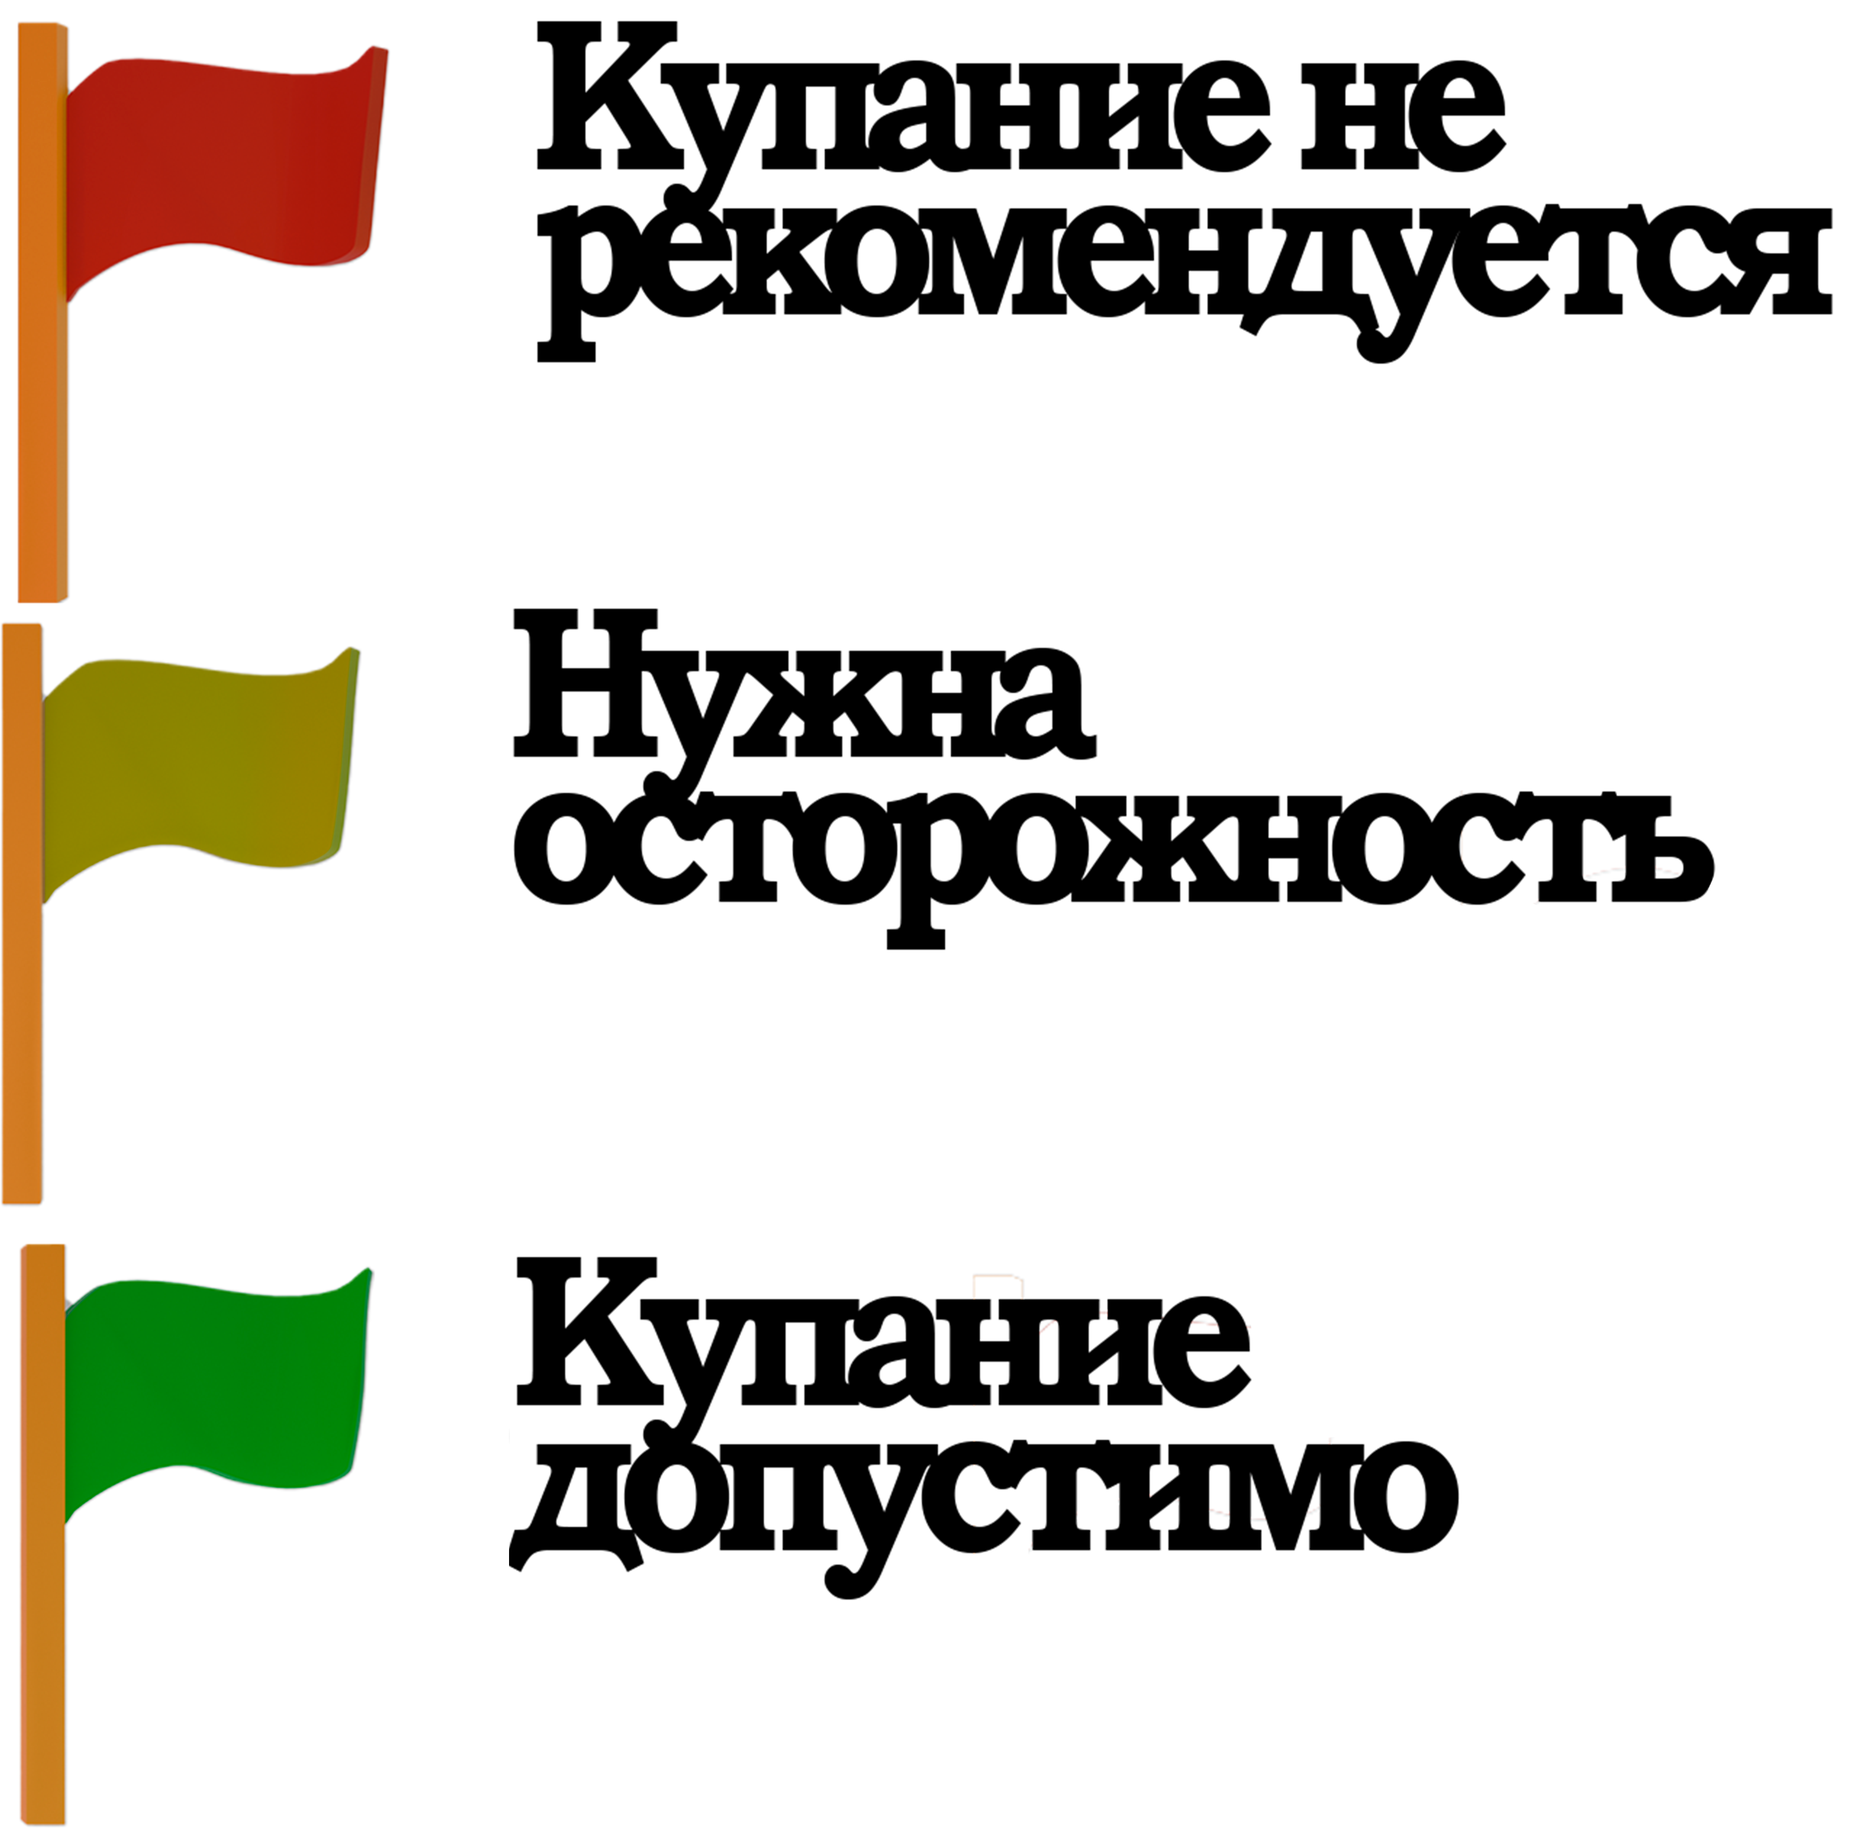
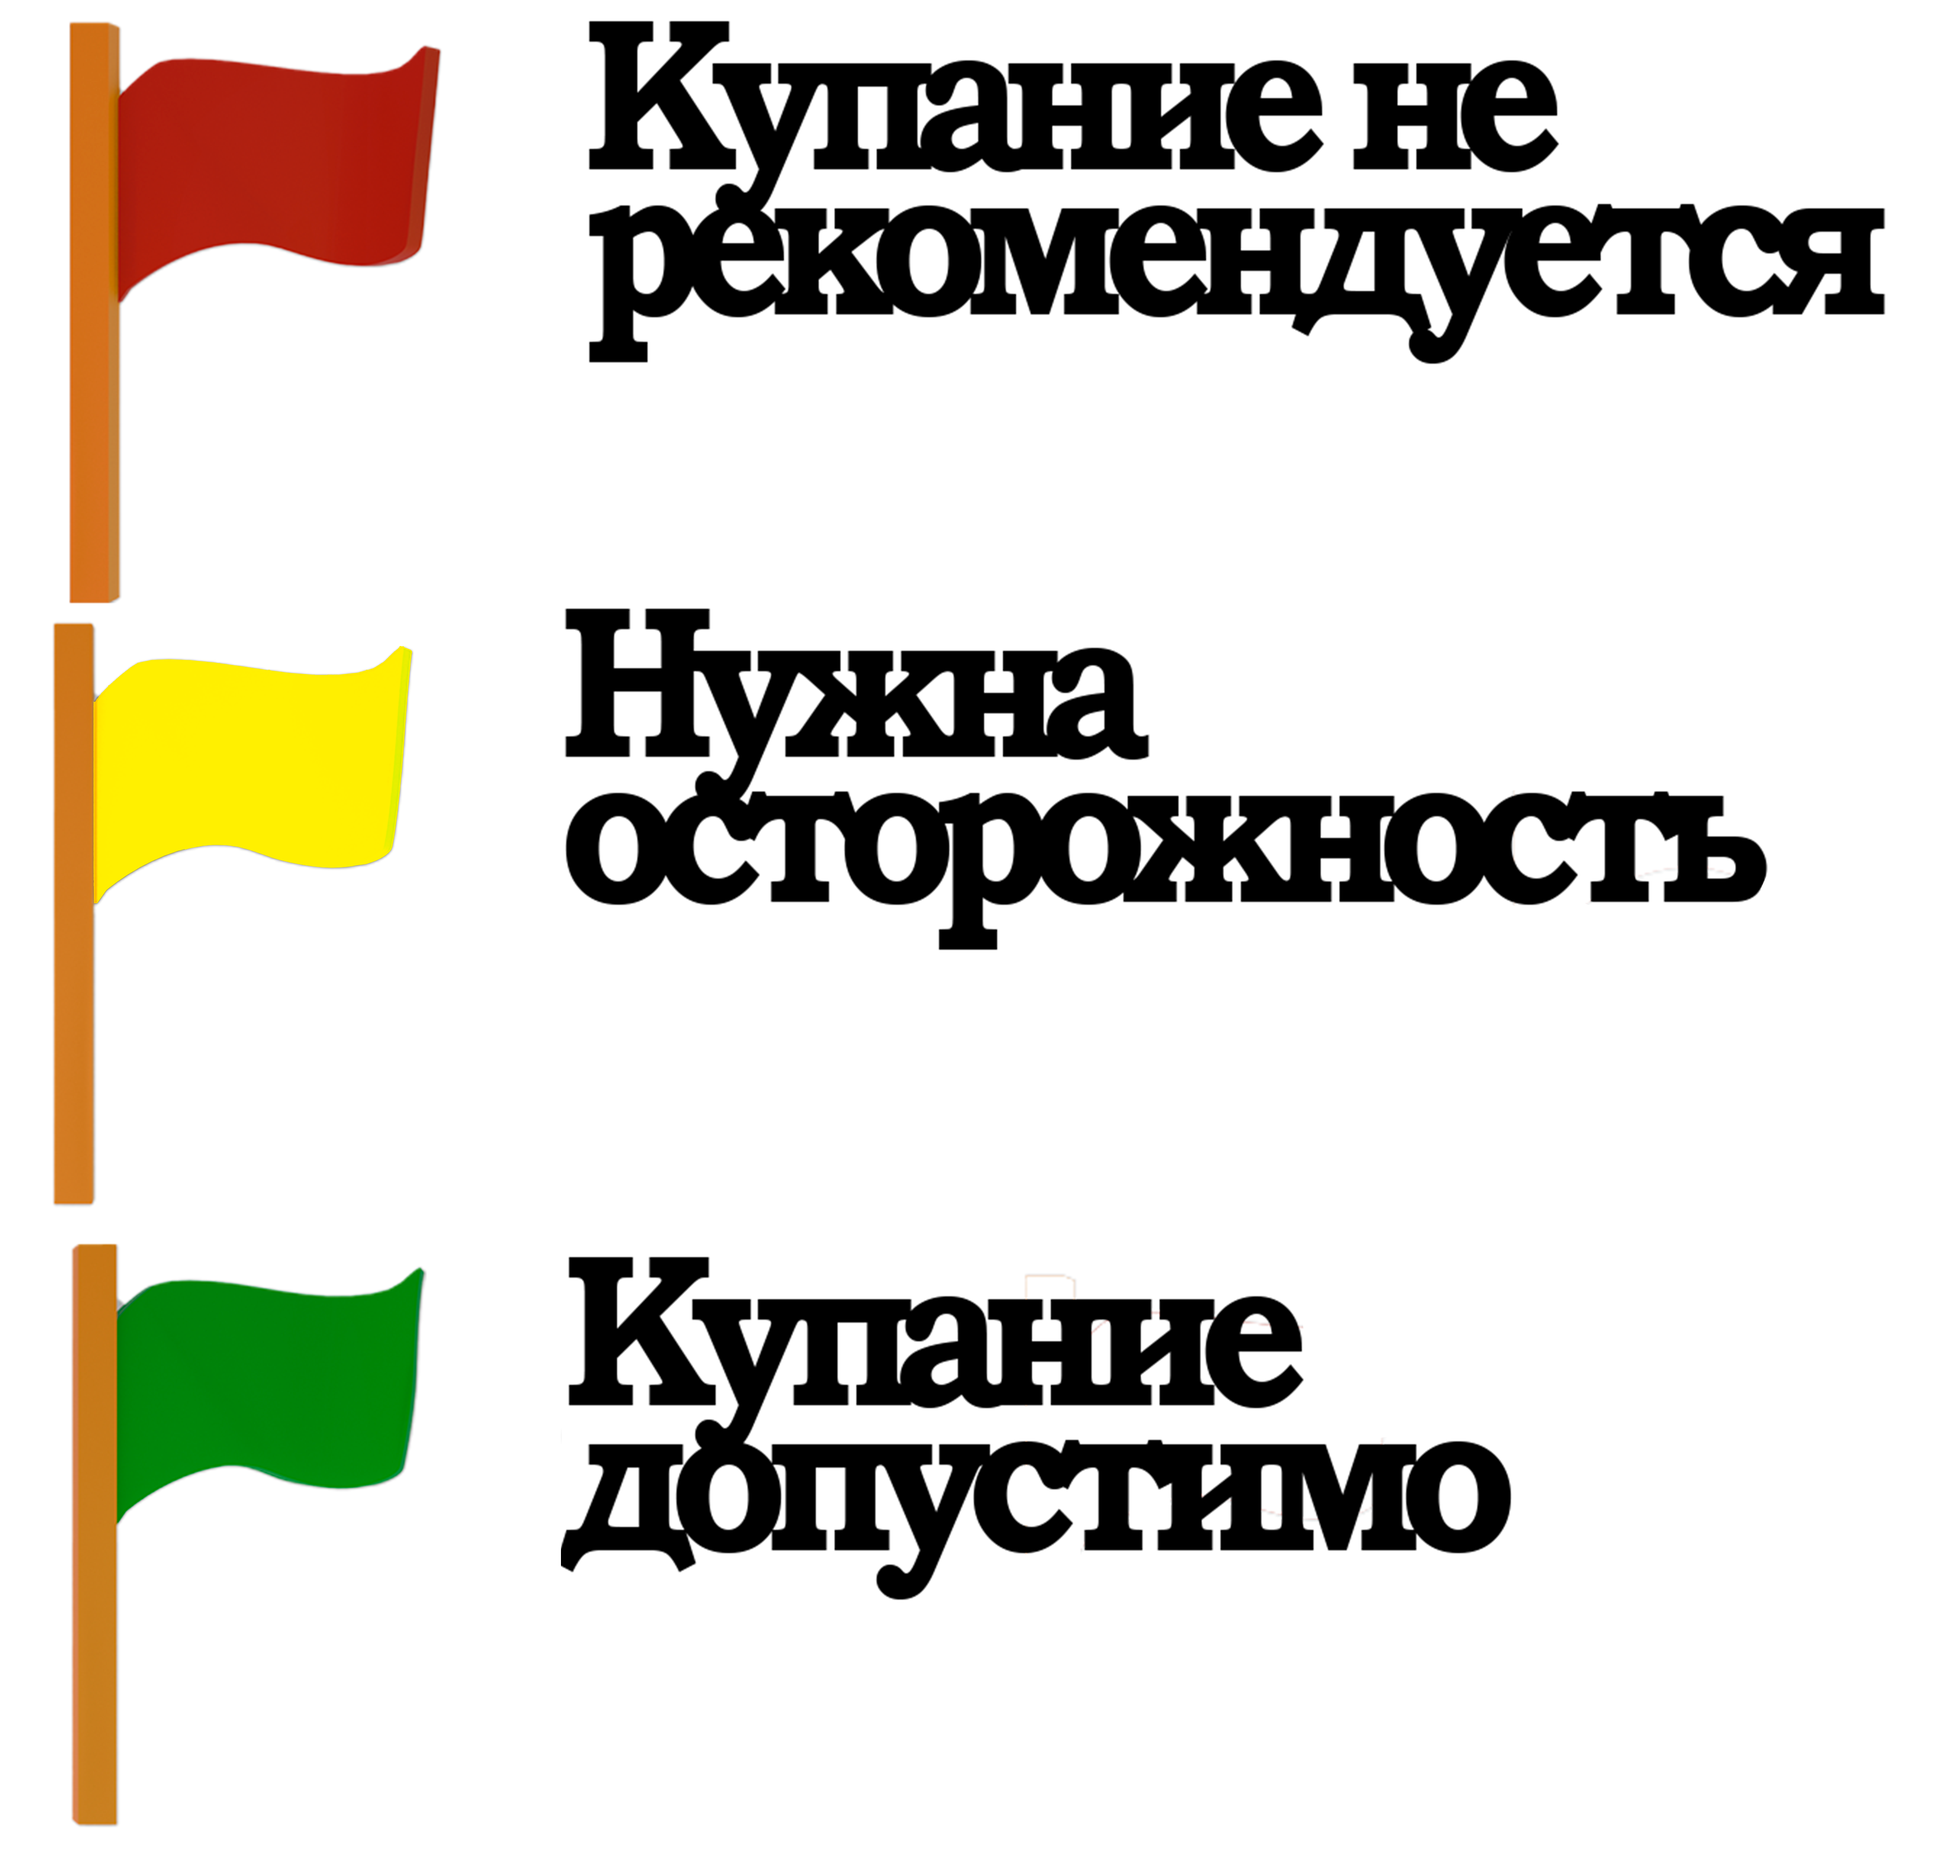
update/Сделал цвета приятно-адекватными

diff --git a/resources/css/app.css b/resources/css/app.css
@@ -21,7 +21,7 @@
     --accent: #0e81c6;
     --accent-strong: #0b669c;
     --status-safe: #1f9d5a;
-    --status-caution: yellow;
+    --status-caution: rgba(225, 225, 104, 0.467);
     --status-danger: #db4a40;
     --shadow-soft: 0 10px 30px rgba(21, 48, 72, 0.08);
     --shadow-strong: 0 20px 42px rgba(8, 30, 48, 0.18);
@@ -528,8 +528,10 @@ body {
 }
 
 .badge-caution {
-    background: yellow;
-    color: #000000;
+    background: rgba(255, 215, 0, 0.15);
+    /* Классический желтый с прозрачностью 15% */
+    color: #664d00;
+    /* Очень темный, насыщенный горчично-коричневый для контраста */
 }
 
 .badge-danger {
@@ -1837,8 +1839,10 @@ body {
 }
 
 .operator-warning-panel {
-    background: yellow;
-    border: 1px solid yellow;
+    background: #fffbeb;
+    /* Очень мягкий, теплый светло-желтый (amber-50) */
+    border: 1px solid #fde68a;
+    /* Аккуратная рамка чуть темнее фона (amber-200) */
     border-radius: var(--radius-md);
     color: #1e293b;
     display: flex;
